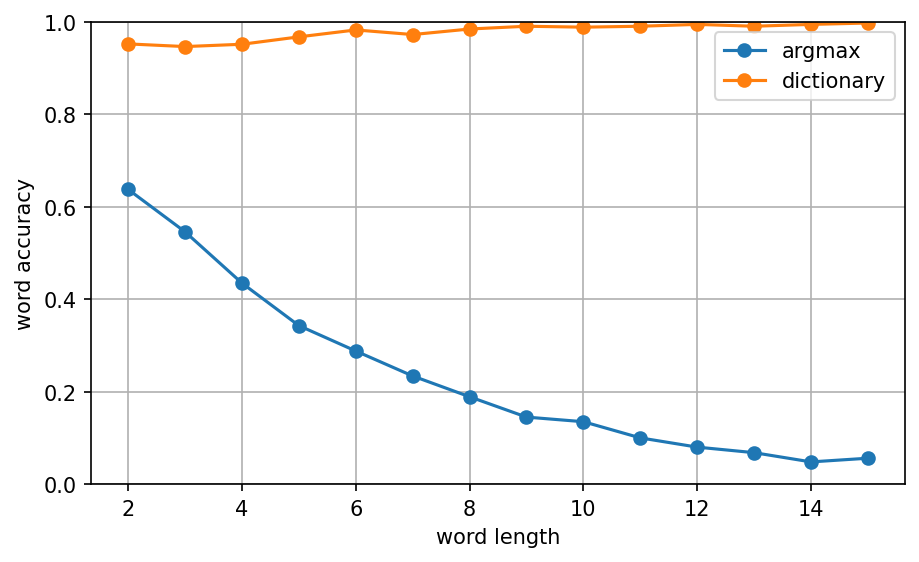
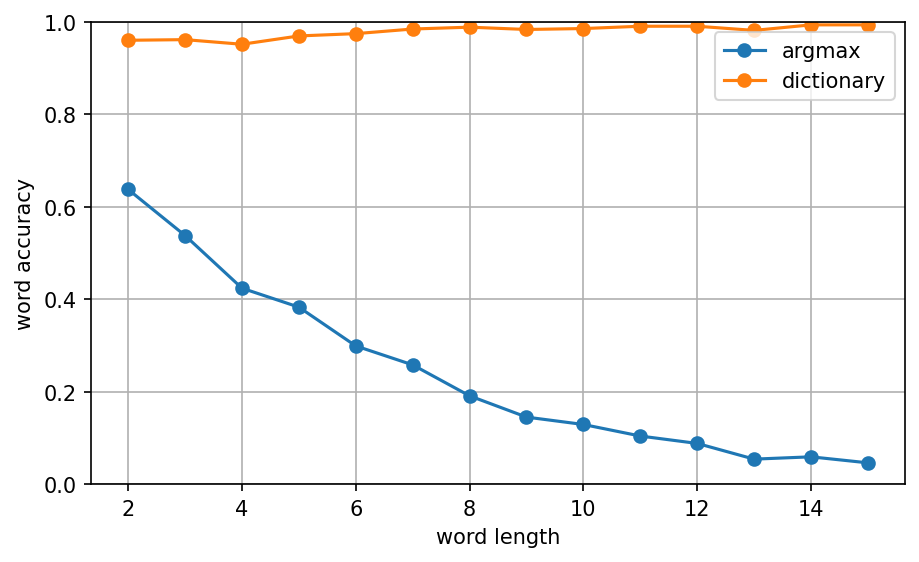
fix: make word evaluation reproducible and confusion labels correct

diff --git a/evaluate_words.py b/evaluate_words.py
@@ -70,8 +70,6 @@ def main():
     for i, label in enumerate(y_test):
         by_class[label].append(i)
 
-    rng = np.random.default_rng(SEED)
-
     model = load_model(MODEL_PATH)
 
     words = load_word_list(WORDS_PATH)
@@ -83,7 +81,10 @@ def main():
     results = []
     for length, words_of_length in sorted(groups.items()):
 
+        # own rng stream per length, so a single row can be recomputed in isolation
+        rng = np.random.default_rng(SEED + length)
         n = min(SAMPLES_PER_LENGTH, len(words_of_length))
+
         sample = rng.choice(words_of_length, size=n, replace=False)
 
         ok_argmax = 0

diff --git a/evaluate.py b/evaluate.py
@@ -17,7 +17,7 @@ MODEL_PATH = "models/best_model.h5"
 def top_confusions(y_true, y_pred, dictionary, n=15):
     """Print the n most frequent misclassifications, correct ones excluded."""
 
-    cm_counts = confusion_matrix(y_true, y_pred)
+    cm_counts = confusion_matrix(y_true, y_pred, labels=np.arange(len(dictionary)))
 
     np.fill_diagonal(cm_counts, 0)
     cm_counts_flatten = cm_counts.flatten()
